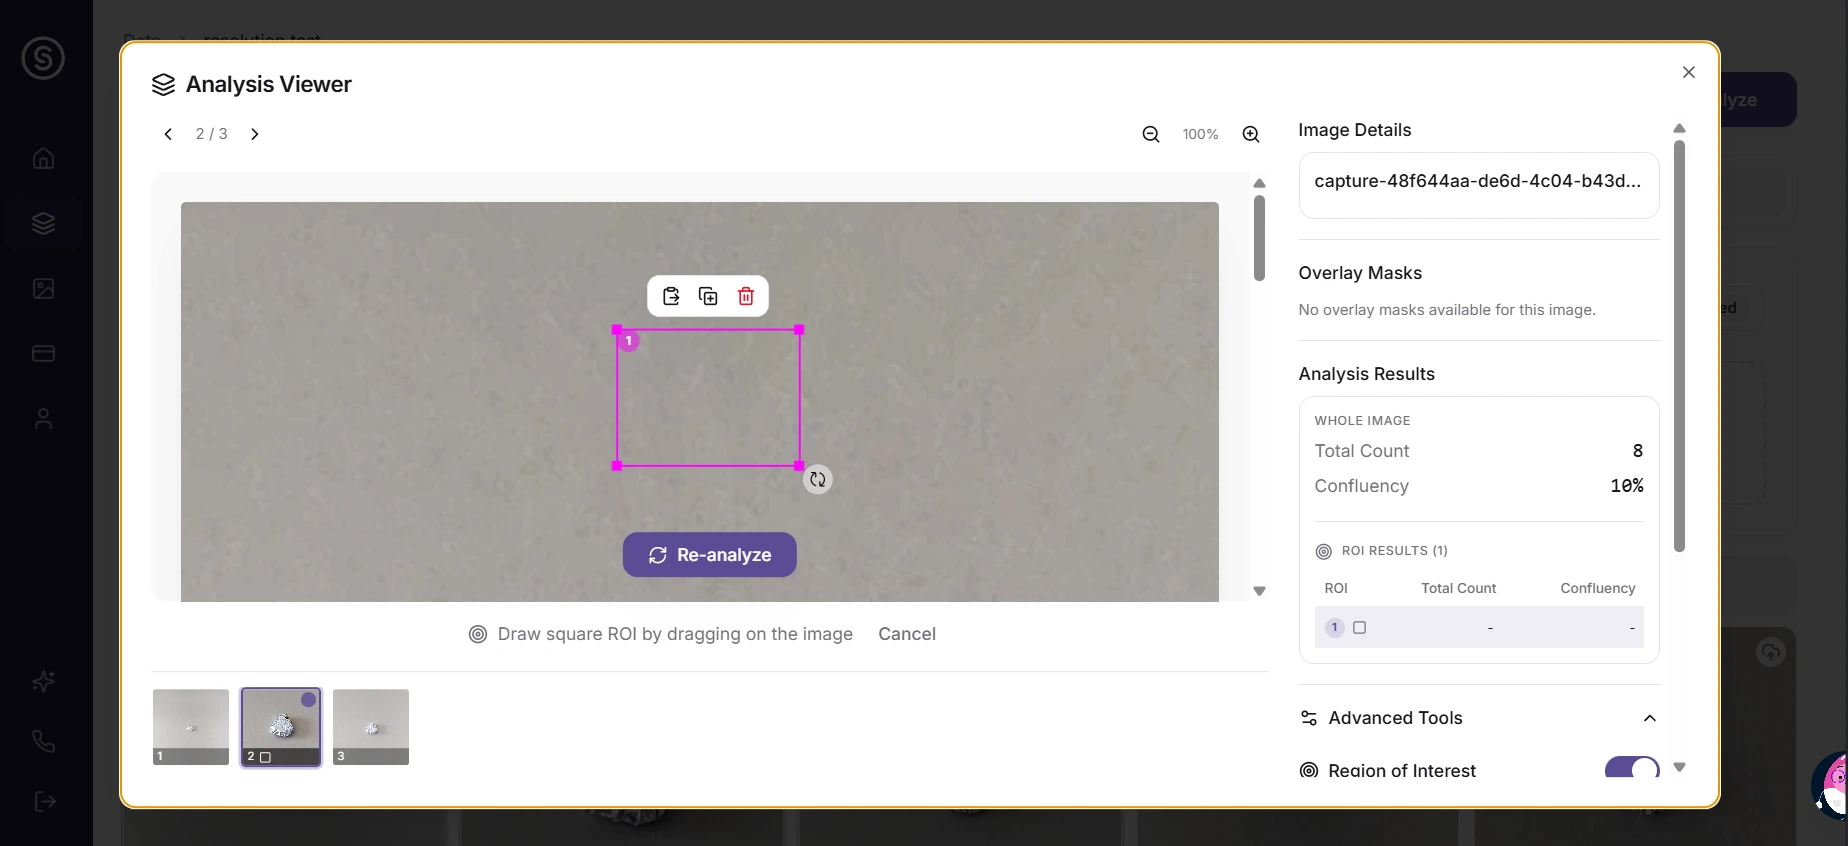
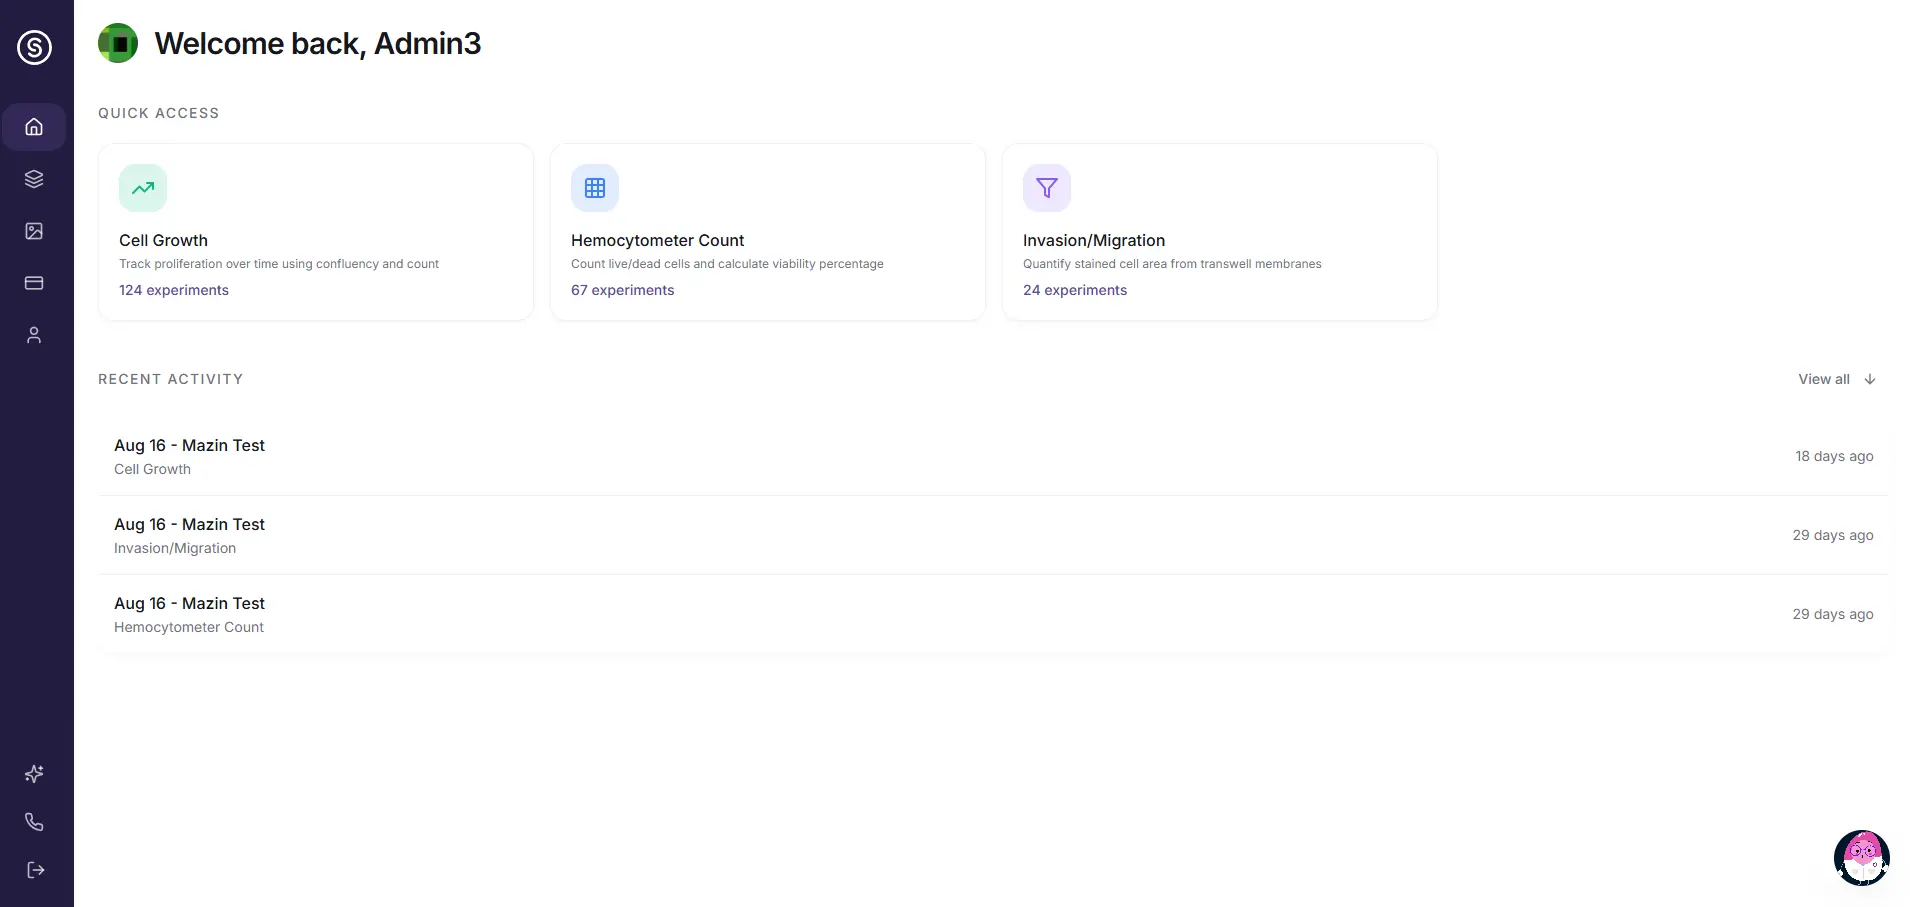
feat: add project components, localization files, and corresponding assets

diff --git a/src/components/HomePage/Projects.vue b/src/components/HomePage/Projects.vue
@@ -48,10 +48,10 @@ onUnmounted(() => {
 
 const projects = [
   {
-    skills: ["Nuxt 4", "TypeScript", "Supabase", "Pinia", "Nuxt Image", "Tailwind 4"],
-    img: "mazzinshop.webp",
-    link: "https://mazzinshop.ir",
-    descriptionKey: "mazzinshop",
+    skills: ["Next.js 16", "TypeScript", "Supabase RLS", "Tailwind 4", "AI Copilot", "dnd-kit", "Real-time"],
+    img: "nexora.webp",
+    link: "https://nexora-kappa-wheat.vercel.app/",
+    descriptionKey: "nexora",
   },
   {
     skills: ["React", "TypeScript", "AI Analysis", "React Query", "Supabase", "Framer Motion", "Zod", "Medical Imaging"],
@@ -60,22 +60,16 @@ const projects = [
     descriptionKey: "labAi",
   },
   {
+    skills: ["Nuxt 4", "TypeScript", "Supabase", "Pinia", "Nuxt Image", "Tailwind 4"],
+    img: "mazzinshop.webp",
+    link: "https://mazzinshop.ir",
+    descriptionKey: "mazzinshop",
+  },
+  {
     skills: ["vue", "daisyui", "vuetify", "Tailwind", "Swiper"],
     img: "mywebsite.webp",
     link: "https://www.hoseinmazinani.ir",
     descriptionKey: "mywebsite",
-  },
-  {
-    skills: ["React", "Tailwind", "Syncfusion", "Eslint"],
-    img: "dashboard.webp",
-    link: "https://dashboard-five-flax.vercel.app/",
-    descriptionKey: "dashboard",
-  },
-  {
-    skills: ["NEXT.JS", "React", "Mongo db", "SWR", "Html&Css"],
-    img: "event.webp",
-    link: "https://nextjs-tutorial-coral-three.vercel.app/",
-    descriptionKey: "event",
   },
   {
     skills: ["React", "MUI", "Axios", "Emotion"],
@@ -85,15 +79,21 @@ const projects = [
   },
   {
     skills: ["vue", "daisyui", "vuetify", "Tailwind", "Swiper"],
+    img: "yekmovie.webp",
+    link: "https://yek-movie-hosein-khan.vercel.app/",
+    descriptionKey: "yekmovie",
+  },
+  {
+    skills: ["vue", "daisyui", "vuetify", "Tailwind", "Swiper"],
     img: "octopus.webp",
     link: "https://octopus-website-ten.vercel.app/",
     descriptionKey: "octopus",
   },
   {
-    skills: ["vue", "daisyui", "vuetify", "Tailwind", "Swiper"],
-    img: "yekmovie.webp",
-    link: "https://yek-movie-hosein-khan.vercel.app/",
-    descriptionKey: "yekmovie",
+    skills: ["React", "Tailwind", "Syncfusion", "Eslint"],
+    img: "dashboard.webp",
+    link: "https://dashboard-five-flax.vercel.app/",
+    descriptionKey: "dashboard",
   },
 ];
 
@@ -147,13 +147,13 @@ const sectionVisibility = ref(projects.map(() => false));
                   target="_blank"
                   class="visit-btn flex text-white font-semibold py-1 justify-center items-center rounded-lg mb-6 -mt-3"
                   style="background-color: rgba(5, 5, 5, 0.5); border: solid 2px white">
-                  {{ t('projects.visit') }}
+                  {{ t("projects.visit") }}
                 </a>
               </div>
             </div>
           </div>
           <div class="text-[14px] mt-2 pl-3 font-medium pb-2 pr-3 relative z-10">
-            <p class="project-desc">{{ t('projects.items.' + project.descriptionKey + '.desc') }}</p>
+            <p class="project-desc">{{ t("projects.items." + project.descriptionKey + ".desc") }}</p>
           </div>
         </div>
       </div>
@@ -268,12 +268,12 @@ const sectionVisibility = ref(projects.map(() => false));
 .nightclub-mode .project-card {
   background-color: rgb(15, 15, 15) !important;
   box-shadow: 0 10px 30px rgba(0, 0, 0, 0.7) !important;
-  border: none !important; 
+  border: none !important;
 }
 
 .nightclub-mode .skill1 {
   filter: sepia(0.3) hue-rotate(calc(var(--glow-intensity) * 90deg)) contrast(calc(1 + var(--glow-intensity) * 0.8));
-  transition: box-shadow 0.5s ease-in-out !important; 
+  transition: box-shadow 0.5s ease-in-out !important;
 }
 
 .nightclub-mode .skill1:hover {

diff --git a/src/locales/fa.js b/src/locales/fa.js
@@ -56,6 +56,11 @@ export default {
     sysTitle: "DATABASE // ARCHIVES",
     visit: "مشاهده",
     items: {
+      nexora: {
+        desc: "پلتفرم سازمانی مدیریت هوشمند پروژه و SaaS چندمستأجره با هوش مصنوعی. شامل ۵ نمای تعاملی (کانبان، گانت، تقویم و جدول)، همکاری ریلتایم و کوپایلت اختصاصی.",
+        descMob:
+          "پلتفرم سازمانی و مدرن مدیریت پروژه مبتنی بر هوش مصنوعی و معماری چندمستأجره (Multi-Tenant) با امنیت RLS در Supabase، ساخته شده با Next.js 16 و TypeScript. دارای ۵ نمای پویا و هماهنگ، همکاری زنده تیمی و دستیار هوشمند درونبرنامهای.",
+      },
       mazzinshop: {
         desc: "یک پلتفرم فروشگاهی مدرن ساخته شده با Nuxt 4 و TypeScript. دارای موتور جستجوی محصول، Supabase و سیستم فروشگاهی پویا.",
         descMob:

diff --git a/src/locales/en.js b/src/locales/en.js
@@ -49,6 +49,10 @@ export default {
     sysTitle: "DATABASE // ARCHIVES",
     visit: "Visit",
     items: {
+      nexora: {
+        desc: "Enterprise-grade AI-powered project intelligence & multi-tenant collaborative SaaS. Features 5 dynamic perspectives, real-time presence, and an in-app AI copilot.",
+        descMob: "Enterprise-grade AI-powered project intelligence & multi-tenant collaborative SaaS built with Next.js 16, Supabase RLS, and Tailwind 4. Features 5 dynamic perspectives (Kanban, Gantt, Table, Calendar, List), real-time collaboration, and an intelligent in-app AI copilot."
+      },
       mazzinshop: {
         desc: "A modern e-commerce platform built with Nuxt 4 and TypeScript. Features product search engine, Supabase, and dynamic store system.",
         descMob: "A modern e-commerce platform built with Nuxt 4 and TypeScript, featuring a powerful product search engine, category-based filtering, Supabase integration, Pinia state management, optimized images with Nuxt Image, and a clean responsive UI powered by Tailwind CSS."

diff --git a/src/components/HomePageMob/ProjectsMob.vue b/src/components/HomePageMob/ProjectsMob.vue
@@ -26,6 +26,12 @@ const { t } = useI18n();
 
 const projects = [
   {
+    skills: ["Next.js 16", "TypeScript", "Supabase RLS", "Tailwind 4", "AI Copilot", "dnd-kit", "Real-time"],
+    img: "nexora.webp",
+    link: "https://nexora-kappa-wheat.vercel.app/",
+    descriptionKey: "nexora",
+  },
+  {
     skills: ["Nuxt 4", "TypeScript", "Supabase", "Pinia", "Nuxt Image", "Tailwind 4"],
     img: "mazzinshop.webp",
     link: "https://mazzinshop.ir",
